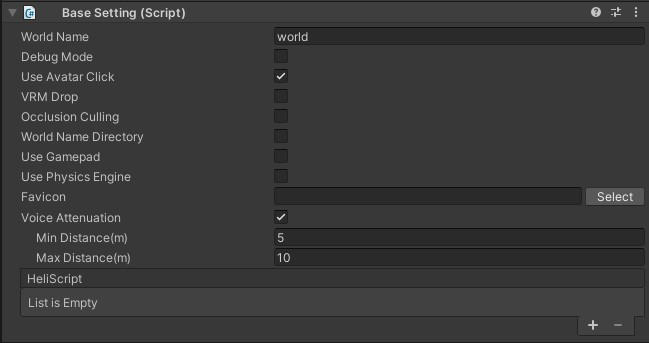
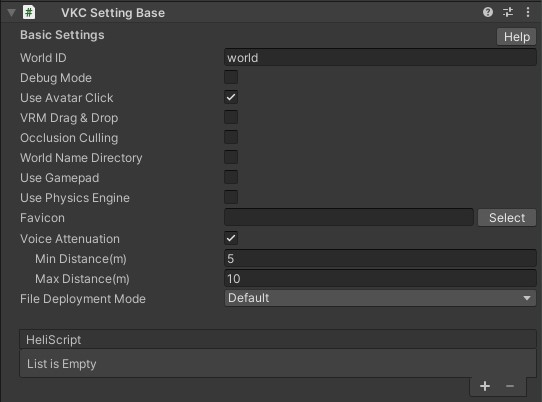
BasicSettings: World IDに関する記述を変更

diff --git a/docs/VketCloudSettings/BasicSettings.ja.md b/docs/VketCloudSettings/BasicSettings.ja.md
@@ -6,10 +6,10 @@ BasicSettingsでは、ワールドの基本的な設定を編集できます。
 
 | 名称 | 初期値 | 機能 |
 | ---- | ---- | ---- |
-|  `World Name` | "world" |  ワールド名を設定する項目です。基本的にはワールド作成時に自動生成されたIDがアップロード時に自動入力され、URLなどに反映されます。<br> (例：[VketID_of_Creator].cloud.vket.com/worlds/[World_Name])|
+|  `World ID` | "world" |  ワールドIDを設定する項目です。基本的にはワールド作成時に自動生成されたIDがアップロード時に自動入力され、URLなどに反映されます。<br> (例：[VketID_of_Creator].cloud.vket.com/worlds/[World ID])|
 |  `Debug Mode` | false |  デバッグモードを切り替えることができます。オンにするとブラウザ上で`F1`または`F2`からデバッグ機能を使用することが可能になります。<br>詳しくはデバッグモードの[解説ページ](../WorldEditingTips/DebugMode.md)をご確認ください。|
 | `Use Avatar Click`| true | 他のプレイヤーをクリックした時に処理を利用するかどうかの設定です。 |
-| `VRM Drop` | false | ブラウザ上へのVRMドロップによるローカルの(他プレイヤーから見えない)アバター変更を許可します。 |
+| `VRM Drag & Drop` | false | ブラウザ上へのVRMドロップによるローカルの(他プレイヤーから見えない)アバター変更を許可します。 |
 | `Occlusion Culling` | false | オクルージョンカリングをオンにします。<br>詳しい使い方は[オクルージョンカリング](../WorldOptimization/OcclusionCulling.md)をご確認ください。　|
 | `World Name Directory` | false | .heoファイルなどの出力時に、ワールド名の付いたフォルダにまとめます。<br>(例： data/field/`ワールド名`/world.heo)|
 | `Use GamePad` | false | ゲームパッドを使用するかどうかの設定です。 |

diff --git a/docs/VketCloudSettings/BasicSettings.en.md b/docs/VketCloudSettings/BasicSettings.en.md
@@ -6,10 +6,10 @@ BasicSettings handles the main settings of the world.
 
 |  Label | Initial Value | function |
 | ---- | ---- | ---- |
-|  `World Name` | "world" | Set the name of the World. This value will be autofilled by the generated world ID on upload, which will mainly be used for the world URL.<br> (e.g. [VketID_of_Creator].cloud.vket.com/worlds/[World_Name]) |
+|  `World ID` | "world" | Set the World ID. This value will be autofilled by the generated world ID on upload, which will mainly be used for the world URL.<br> (e.g. [VketID_of_Creator].cloud.vket.com/worlds/[World_Name]) |
 |  `Debug Mode`  | false |  Switch to debug mode. When switched on, players can use the F1/F2 key to access the debug menu on browser.<br>For details, refer to the [debug mode](../WorldEditingTips/DebugMode.md) page.|
 | `Use Avatar Click`| true | Activate functions running when clicking other players. |
-|  `VRM Drop`  | false | Allows users to locally change their avatar by drag-and-dropping their own .vrm avatars to the browser screen.  |
+|  `VRM Drag & Drop`  | false | Allows users to locally change their avatar by drag-and-dropping their own .vrm avatars to the browser screen.  |
 |  `Occlusion Culling`  | false | Activate the Occlusion Culling.<br>For instructions, please refer to [Occlusion Culling](../WorldOptimization/OcclusionCulling.md).  |
 |  `World Name Directory`  | false | When exporting to .heo and other files, the files will be packed into a folder with the same name as the `World Name`. <br>(e.g. data/field/`World Name`/world.heo) |
 | `Use GamePad` | false | Activate usage of GamePads.  |

diff --git a/docs/changelog/changelog-13.4.ja.md b/docs/changelog/changelog-13.4.ja.md
@@ -1,0 +1,11 @@
+# SDK Manual Change Log - Ver 13.4
+
+## 追加されたページ
+
+## 変更されたページ
+
+- VketCloudSettings
+  - [BasicSettings](https://vrhikky.github.io/VketCloudSDK_Documents/13.4/VketCloudSettings/BasicSettings.html)
+    - World IDに関する設定記述を変更
+
+## 削除されたページ

diff --git a/docs/changelog/changelog-13.4.en.md b/docs/changelog/changelog-13.4.en.md
@@ -1,0 +1,11 @@
+# SDK Manual Change Log - Ver 13.4
+
+## Added Pages
+
+## Edited Pages
+
+- VketCloudSettings
+  - [BasicSettings](https://vrhikky.github.io/VketCloudSDK_Documents/13.4/en/VketCloudSettings/BasicSettings.html)
+    - Changed description about World ID
+
+## Deleted Pages
